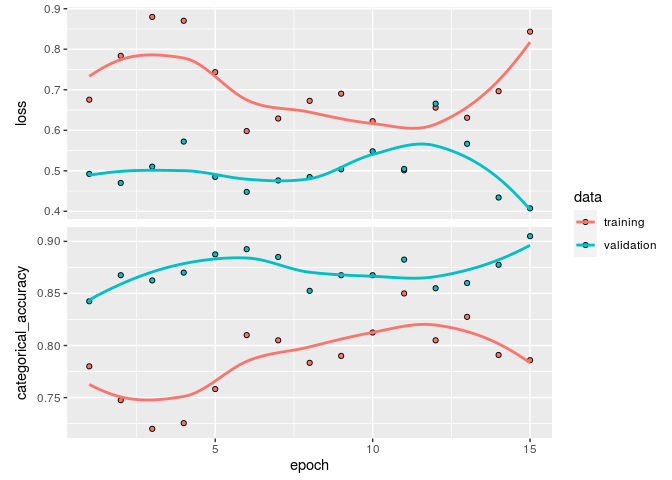
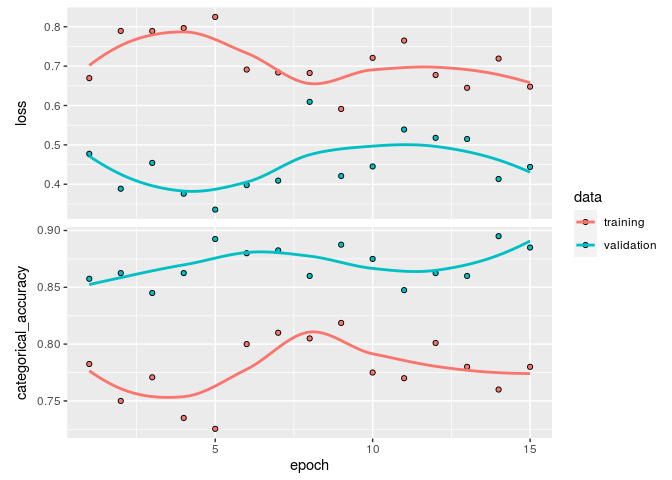
trying a even lower minimal learning rate

diff --git a/Fine-tune-layer-4.md b/Fine-tune-layer-4.md
@@ -120,8 +120,8 @@ Plotting to see if it works :
     ## <keras_preprocessing.image.dataframe_iterator.DataFrameIterator>
 
     ## List of 2
-    ##  $ : num [1:4, 1:448, 1:448, 1:3] 102.9 65.2 51 109 99.9 ...
-    ##  $ : num [1:4, 1:4] 1 0 0 1 0 1 0 0 0 0 ...
+    ##  $ : num [1:4, 1:448, 1:448, 1:3] 32 161 35.8 62 32 ...
+    ##  $ : num [1:4, 1:4] 1 1 0 0 0 0 0 0 0 0 ...
 
 # Impot pre-trained model
 
@@ -592,11 +592,11 @@ n_iter<-n*nb_epochs
 ```
 
 ``` r
-l_rate_cyclical <- Cyclic_LR(iteration=1:n, base_lr=1e-8, max_lr=(1e-3)/10, step_size=floor(n/2),
+l_rate_cyclical <- Cyclic_LR(iteration=1:n, base_lr=1e-9, max_lr=(1e-3)/10, step_size=floor(n/2),
                         mode='triangular', gamma=1, scale_fn=NULL, scale_mode='cycle')
 
 
-l_rate_cosine_annealing <- Cyclic_LR(iteration=1:n_iter, base_lr=1e-8, max_lr=(1e-3)/10, step_size=floor(n),
+l_rate_cosine_annealing <- Cyclic_LR(iteration=1:n_iter, base_lr=1e-9, max_lr=(1e-3)/10, step_size=floor(n),
                         mode='halfcosine', gamma=1, scale_fn=NULL, scale_mode='cycle')
 
 l_rate_cosine_annealing <- rep(l_rate_cosine_annealing[n:(n*2)])
